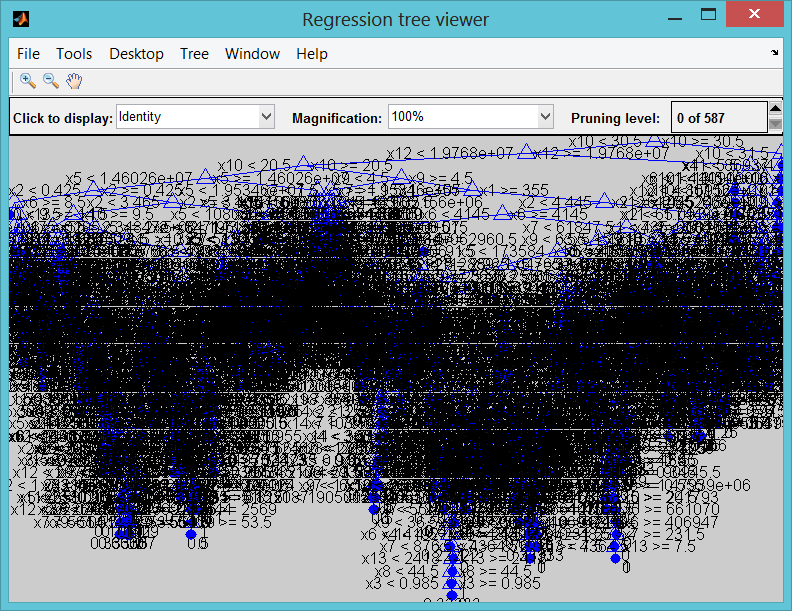
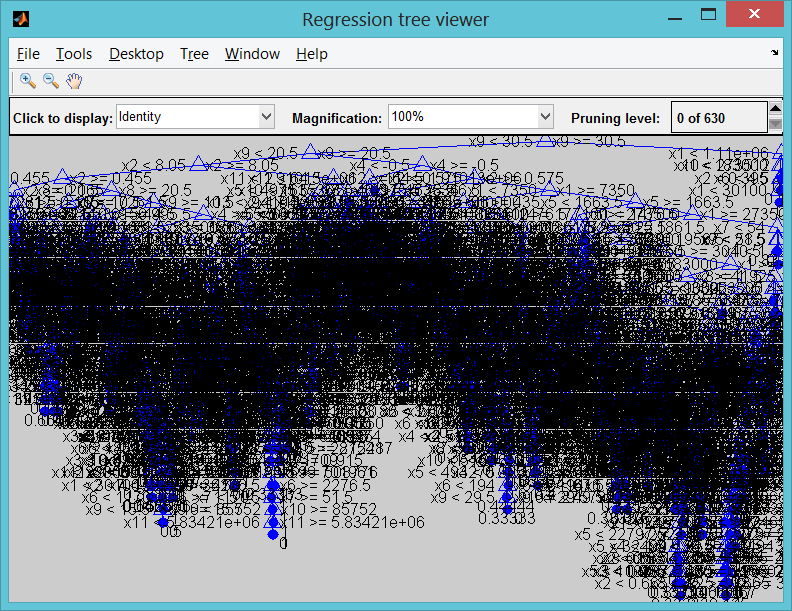
new predictors

Changed region(s): [[0.0, 0.4975, 1.0, 0.9951], [0.0, 0.1866, 1.0, 0.5908], [0.3333, 0.4975, 0.3636, 0.5286]]

diff --git a/toxicity_multiple_learning.html b/toxicity_multiple_learning.html
@@ -6,7 +6,7 @@
    <!--
 This HTML was auto-generated from MATLAB code.
 To make changes, update the MATLAB code and republish this document.
-      --><title>Machine Learning for links toxicity assessment</title><meta name="generator" content="MATLAB 8.3"><link rel="schema.DC" href="http://purl.org/dc/elements/1.1/"><meta name="DC.date" content="2014-11-03"><meta name="DC.source" content="toxicity_multiple_learning.m"><style type="text/css">
+      --><title>Machine Learning for links toxicity assessment</title><meta name="generator" content="MATLAB 8.3"><link rel="schema.DC" href="http://purl.org/dc/elements/1.1/"><meta name="DC.date" content="2014-11-04"><meta name="DC.source" content="toxicity_multiple_learning.m"><style type="text/css">
 html,body,div,span,applet,object,iframe,h1,h2,h3,h4,h5,h6,p,blockquote,pre,a,abbr,acronym,address,big,cite,code,del,dfn,em,font,img,ins,kbd,q,s,samp,small,strike,strong,sub,sup,tt,var,b,u,i,center,dl,dt,dd,ol,ul,li,fieldset,form,label,legend,table,caption,tbody,tfoot,thead,tr,th,td{margin:0;padding:0;border:0;outline:0;font-size:100%;vertical-align:baseline;background:transparent}body{line-height:1}ol,ul{list-style:none}blockquote,q{quotes:none}blockquote:before,blockquote:after,q:before,q:after{content:'';content:none}:focus{outine:0}ins{text-decoration:none}del{text-decoration:line-through}table{border-collapse:collapse;border-spacing:0}
 
 html { min-height:100%; margin-bottom:1px; }
@@ -117,9 +117,9 @@ table td { padding:7px 5px; text-align:left; vertical-align:top; border:1px soli
     3736                           4.7295e+05               
        2                                    7               
 
-</pre><h2>Prepare the Data: Response and Predictors<a name="3"></a></h2><p>We can segregate the data into response and predictors. This will make it easier to call subsequent functions which expect the data in this format.</p><pre class="codeinput">X = [penguin.KeywordVolume penguin.KeywordCpc penguin.KeywordCompetition penguin.Pr penguin.Alexa penguin.RefPages penguin.RefDomains penguin.CitationFlow penguin.TrustFlow penguin.YesterdayPos penguin.ExactAnchorsRefDomains penguin.ExactAnchorsRefPages penguin.ContainingAnchorsRefDomains penguin.ContainingAnchorsRefPages];
+</pre><h2>Prepare the Data: Response and Predictors<a name="3"></a></h2><p>We can segregate the data into response and predictors. This will make it easier to call subsequent functions which expect the data in this format.</p><pre class="codeinput">X = [penguin.KeywordVolume penguin.KeywordCpc penguin.KeywordCompetition penguin.Pr penguin.RefPages penguin.RefDomains penguin.CitationFlow penguin.TrustFlow penguin.YesterdayPos penguin.ExactAnchorsRefDomains penguin.ExactAnchorsRefPages penguin.ContainingAnchorsRefDomains penguin.ContainingAnchorsRefPages];
 
-catPred={<span class="string">'KeywordVolume'</span> <span class="string">'KeywordCpc'</span> <span class="string">'KeywordCompetition'</span> <span class="string">'Pr'</span> <span class="string">'Alexa'</span> <span class="string">'RefPages'</span> <span class="string">'RefDomains'</span> <span class="string">'CitationFlow'</span> <span class="string">'TrustFlow'</span> <span class="string">'YesterdayPos'</span> <span class="string">'ExactAnchorsRefDomains'</span> <span class="string">'ExactAnchorsRefPages'</span> <span class="string">'ContainingAnchorsRefDomains'</span> <span class="string">'ContainingAnchorsRefPages'</span>};
+catPred={<span class="string">'KeywordVolume'</span> <span class="string">'KeywordCpc'</span> <span class="string">'KeywordCompetition'</span> <span class="string">'Pr'</span> <span class="string">'RefPages'</span> <span class="string">'RefDomains'</span> <span class="string">'CitationFlow'</span> <span class="string">'TrustFlow'</span> <span class="string">'YesterdayPos'</span> <span class="string">'ExactAnchorsRefDomains'</span> <span class="string">'ExactAnchorsRefPages'</span> <span class="string">'ContainingAnchorsRefDomains'</span> <span class="string">'ContainingAnchorsRefPages'</span>};
 
 <span class="comment">% output vector we try to forecast penguin.TodayPos penguin.Change penguin.Change_abs</span>
 <span class="comment">% this threshold is arbitrary ( a continuous classifier is done in another script )</span>
@@ -146,12 +146,12 @@ disp(<span class="string">'Test Set'</span>)
 tabulate(Ytest)
 </pre><pre class="codeoutput">Training Set
   Value    Count   Percent
-      0     8826     71.33%
-      1     3548     28.67%
+      0     9647     71.35%
+      1     3874     28.65%
 Test Set
   Value    Count   Percent
-      0     5913     71.69%
-      1     2335     28.31%
+      0     6499     72.11%
+      1     2514     27.89%
 </pre><h2>Tree performance on validating and training set<a name="5"></a></h2><pre class="codeinput">t = classregtree(Xtrain,Ytrain);
 <span class="comment">%  See tree</span>
 view(t)
@@ -175,20 +175,20 @@ C_tree = confusionmat(categorical(predY),categorical(Ytest));
 <span class="comment">% Examine the confusion matrix for each class as a percentage of the true class</span>
 C_tree = bsxfun(@rdivide,C_tree,sum(C_tree,2)) * 100 <span class="comment">%#ok&lt;*NOPTS&gt;</span>
 </pre><pre class="codeoutput">Full tree training set
-Tree, % Good classified rate on set  : 92.5327
+Tree, % Good classified rate on set  : 92.4858
 
 C_tree =
 
-   95.7398    4.2602
-   14.8822   85.1178
+   96.0222    3.9778
+   15.5164   84.4836
 
 Full tree validating set
-Tree, % Good classified rate on set  : 66.4161
+Tree, % Good classified rate on set  : 66.5039
 
 C_tree =
 
-   77.7405   22.2595
-   58.4204   41.5796
+   78.0374   21.9626
+   58.9954   41.0046
 
 </pre><img vspace="5" hspace="5" src="toxicity_multiple_learning_01.png" alt=""> <h2>Neural Networks<a name="6"></a></h2><p>Neural Network Toolbox supports supervised learning with feedforward, radial basis, and dynamic networks. It supports both classification and regression algorithms. It also supports unsupervised learning with self-organizing maps and competitive layers.</p><p>One can make use of the interactive tools to setup, train and validate a neural network. It is then possible to auto-generate the code for the purpose of automation. In this example, the auto-generated code has been updated to utilize a pool of workers, if available. This is achieved by simply setting the <i>useParallel</i> flag while making a call to <tt>train</tt>.</p><pre class="language-matlab">[net,~] = train(net,inputs,targets,<span class="string">'useParallel'</span>,<span class="string">'yes'</span>);
 </pre><p>If a GPU is available, it may be utilized by setting the <i>useGPU</i> flag.</p><p>The trained network is used to make a prediction on the test data and confusion matrix is generated for comparison with other techniques.</p><pre class="codeinput"><span class="comment">% Use modified autogenerated code to train the network</span>
@@ -206,8 +206,8 @@ C_nn = bsxfun(@rdivide,C_nn,sum(C_nn,2)) * 100 <span class="comment">%#ok&lt;*NO
 
 C_nn =
 
-   99.9154    0.0846
-   99.9572    0.0428
+   94.9531    5.0469
+   90.2546    9.7454
 
 </pre><img vspace="5" hspace="5" src="toxicity_multiple_learning_02.png" alt=""> <h2>Generalized Linear Model - Logistic Regression<a name="7"></a></h2><p>In this example, a logistic regression model is leveraged. Response may follow normal, binomial, Poisson, gamma, or inverse Gaussian distribution.</p><p>Since the response in this data set is binary, binomial distribution is suitable.</p><pre class="codeinput"><span class="comment">% Train the classifier</span>
 glm = GeneralizedLinearModel.fit(Xtrain,Ytrain,<span class="string">'linear'</span>,<span class="string">'Distribution'</span>,<span class="string">'binomial'</span>,<span class="string">'link'</span>,<span class="string">'logit'</span>);
@@ -223,8 +223,8 @@ C_glm = bsxfun(@rdivide,C_glm,sum(C_glm,2)) * 100
 </pre><pre class="codeoutput">
 C_glm =
 
-   92.9816    7.0184
-   87.2805   12.7195
+   92.6450    7.3550
+   86.2371   13.7629
 
 </pre><h2>Discriminant Analysis<a name="8"></a></h2><p>Discriminant analysis is a classification method. It assumes that different classes generate data based on different Gaussian distributions. Linear discriminant analysis is also known as the Fisher discriminant.</p><p>Here, a quadratic discriminant classifier is used.</p><pre class="codeinput"><span class="comment">% Train the classifier</span>
 da = ClassificationDiscriminant.fit(Xtrain,Ytrain,<span class="string">'discrimType'</span>,<span class="string">'quadratic'</span>);
@@ -239,8 +239,8 @@ C_da = bsxfun(@rdivide,C_da,sum(C_da,2)) * 100
 </pre><pre class="codeoutput">
 C_da =
 
-   82.9866   17.0134
-   71.0064   28.9936
+   98.1228    1.8772
+   97.4543    2.5457
 
 </pre><h2>Classification Using Nearest Neighbors<a name="9"></a></h2><p>Categorizing query points based on their distance to points in a training dataset can be a simple yet effective way of classifying new points. Various distance metrics such as euclidean, correlation, hamming, mahalonobis or your own distance metric may be used.</p><pre class="codeinput"><span class="comment">% Train the classifier</span>
 knn = ClassificationKNN.fit(Xtrain,Ytrain,<span class="string">'Distance'</span>,<span class="string">'seuclidean'</span>);
@@ -255,8 +255,8 @@ C_knn = bsxfun(@rdivide,C_knn,sum(C_knn,2)) * 100
 </pre><pre class="codeoutput">
 C_knn =
 
-   76.2388   23.7612
-   58.2441   41.7559
+   75.2885   24.7115
+   59.8250   40.1750
 
 </pre><h2>Naive Bayes Classification<a name="10"></a></h2><p>Naive Bayes classification is based on estimating P(X|Y), the probability or probability density of features X given class Y. The Naive Bayes classification object provides support for normal (Gaussian), kernel, multinomial, and multivariate multinomial distributions</p><pre class="codeinput"><span class="comment">% The multivariate multinomial distribution (_mvmn_) is appropriate for</span>
 <span class="comment">% categorical features</span>
@@ -273,8 +273,8 @@ C_nb = bsxfun(@rdivide,C_nb,sum(C_nb,2)) * 100
 </pre><pre class="codeoutput">
 C_nb =
 
-   67.7829   32.2171
-   47.4090   52.5910
+   62.8097   37.1903
+   39.1806   60.8194
 
 </pre><h2>Support Vector Machines<a name="11"></a></h2><p>Support vector machine (SVM) is supported for binary response variables. An SVM classifies data by finding the best hyperplane that separates all data points of one class from those of the other class.</p><pre class="codeinput">opts = statset(<span class="string">'MaxIter'</span>,30000);
 <span class="comment">% Train the classifier</span>
@@ -288,8 +288,8 @@ C_svm = bsxfun(@rdivide,C_svm,sum(C_svm,2)) * 100
 </pre><pre class="codeoutput">
 C_svm =
 
-   49.3996   50.6004
-   15.0749   84.9251
+   47.9305   52.0695
+   14.0811   85.9189
 
 </pre><h2>Decision Trees<a name="12"></a></h2><p>Classification trees and regression trees are two kinds of decision trees. A decision tree is a flow-chart like structure in which internal node represents test on an attribute, each branch represents outcome of test and each leaf node represents a response (decision taken after computing all attributes). Classification trees give responses that are nominal, such as 'true' or 'false'. Regression trees give numeric responses.</p><pre class="codeinput">tic
 <span class="comment">% Train the classifier</span>
@@ -303,12 +303,12 @@ Y_t = t.predict(Xtest);
 C_t = confusionmat(categorical(Ytest),categorical(Y_t));
 <span class="comment">% Examine the confusion matrix for each class as a percentage of the true class</span>
 C_t = bsxfun(@rdivide,C_t,sum(C_t,2)) * 100
-</pre><pre class="codeoutput">Elapsed time is 0.528950 seconds.
+</pre><pre class="codeoutput">Elapsed time is 0.505899 seconds.
 
 C_t =
 
-   76.6109   23.3891
-   57.5589   42.4411
+   76.3502   23.6498
+   56.7224   43.2776
 
 </pre><h2>Ensemble Learning: TreeBagger<a name="13"></a></h2><p>Bagging stands for bootstrap aggregation. Every tree in the ensemble is grown on an independently drawn sample of input data. To compute prediction for the ensemble of trees, TreeBagger takes an average of predictions from individual trees (for regression) or takes votes from individual trees (for classification). Ensemble techniques such as bagging combine many weak learners to produce a strong learner.</p><p>From a marketing perspective, as we are creating this predictive model, it may be more important for us to classify <b><i>yes</i></b> correctly than a <b><i>no</i></b>. If that is the case, we can include our opinion using the <i>cost</i> matrix. Here, <i>cost</i> matrix specifies that it is 5 times more costly to classify a <b><i>yes</i></b> as a <b><i>no</i></b>.</p><pre class="codeinput"><span class="comment">% Cost of misclassification</span>
 cost = [0 1
@@ -328,8 +328,8 @@ C_tb = bsxfun(@rdivide,C_tb,sum(C_tb,2)) * 100
 </pre><pre class="codeoutput">
 C_tb =
 
-   57.2637   42.7363
-   21.3704   78.6296
+   55.9163   44.0837
+   20.5251   79.4749
 
 </pre><h2>Compare Results<a name="14"></a></h2><p>This visualization function is making use of a couple files downloaded from <a href="http://www.mathworks.com/matlabcentral/">MATLAB Central</a>, the user community websibte. We are leveraging social computing along the way to help us in our effort.</p><pre class="codeinput">Cmat = [C_nn C_glm C_da C_knn C_nb C_svm C_t C_tb];
 labels = {<span class="string">'Neural Net '</span>, <span class="string">'Logistic Regression '</span>, <span class="string">'Discriminant Analysis '</span>,<span class="keyword">...</span>
@@ -364,34 +364,40 @@ disp(<span class="string">'Included features:'</span>);
 disp(catPred(fs)');
 disp([<span class="string">'Percentage of predictors kept : '</span> num2str(sum(fs)./length(fs)*100) <span class="string">'%'</span>]);
 </pre><pre class="codeoutput">Start forward sequential feature selection:
-Initial columns included:  2 3 10 11 13 
+Initial columns included:  1 2 3 9 12 
 Columns that can not be included:  none
-Step 1, used initial columns, criterion value 0.000566851
-Step 2, added column 5, criterion value 0.000538041
-Step 3, added column 7, criterion value 0.00052648
-Step 4, added column 9, criterion value 0.000520938
-Final columns included:  2 3 5 7 9 10 11 13 
+Step 1, used initial columns, criterion value 0.000511759
+Step 2, added column 11, criterion value 0.000502644
+Step 3, added column 13, criterion value 0.000494243
+Step 4, added column 5, criterion value 0.000489064
+Final columns included:  1 2 3 5 9 11 12 13 
 Start forward sequential feature selection:
-Initial columns included:  2 3 10 11 13 
+Initial columns included:  1 2 3 9 12 
 Columns that can not be included:  none
-Step 1, used initial columns, criterion value 0.000556259
-Step 2, added column 5, criterion value 0.000543932
-Step 3, added column 7, criterion value 0.000530116
-Step 4, added column 12, criterion value 0.000521046
-Step 5, added column 14, criterion value 0.000519754
-Final columns included:  2 3 5 7 10 11 12 13 14 
+Step 1, used initial columns, criterion value 0.00050942
+Step 2, added column 4, criterion value 0.000495904
+Step 3, added column 6, criterion value 0.000487469
+Step 4, added column 10, criterion value 0.000485233
+Step 5, added column 11, criterion value 0.000483666
+Step 6, added column 5, criterion value 0.00048251
+Step 7, added column 7, criterion value 0.000481991
+Step 8, added column 8, criterion value 0.000481276
+Final columns included:  1 2 3 4 5 6 7 8 9 10 11 12 
 Included features:
+    'KeywordVolume'
     'KeywordCpc'
     'KeywordCompetition'
-    'Alexa'
+    'Pr'
+    'RefPages'
     'RefDomains'
+    'CitationFlow'
+    'TrustFlow'
     'YesterdayPos'
     'ExactAnchorsRefDomains'
     'ExactAnchorsRefPages'
     'ContainingAnchorsRefDomains'
-    'ContainingAnchorsRefPages'
 
-Percentage of predictors kept : 64.2857%
+Percentage of predictors kept : 92.3077%
 </pre><h2>TreeBagger with Reduced Feature Set<a name="19"></a></h2><pre class="codeinput">opts = statset(<span class="string">'UseParallel'</span>,true);
 tb_r = TreeBagger(120, Xtrain(:,fs),Ytrain,<span class="string">'method'</span>,<span class="string">'classification'</span>,<span class="string">'PredictorNames'</span>,catPred(:,fs),<span class="string">'Options'</span>,opts,<span class="string">'cost'</span>,cost);
 [Y_tb_r, classifScore] = tb_r.predict(Xtest(:,fs));
@@ -401,8 +407,8 @@ C_tb_r = bsxfun(@rdivide,C_tb_r,sum(C_tb_r,2)) * 100
 </pre><pre class="codeoutput">
 C_tb_r =
 
-   56.5872   43.4128
-   22.8266   77.1734
+   56.6241   43.3759
+   22.1957   77.8043
 
 </pre><h2>Compare Results<a name="20"></a></h2><pre class="codeinput">Cmat = [C_nn C_glm C_da C_knn C_nb C_svm C_t C_tb C_tb_r];
 labels = {<span class="string">'Neural Net '</span>, <span class="string">'Logistic Regression '</span>, <span class="string">'Discriminant Analysis '</span>,<span class="keyword">...</span>
@@ -443,9 +449,9 @@ disp(penguin(1:5,:));
 % We can segregate the data into response and predictors. This will make it
 % easier to call subsequent functions which expect the data in this format.
 
-X = [penguin.KeywordVolume penguin.KeywordCpc penguin.KeywordCompetition penguin.Pr penguin.Alexa penguin.RefPages penguin.RefDomains penguin.CitationFlow penguin.TrustFlow penguin.YesterdayPos penguin.ExactAnchorsRefDomains penguin.ExactAnchorsRefPages penguin.ContainingAnchorsRefDomains penguin.ContainingAnchorsRefPages];
+X = [penguin.KeywordVolume penguin.KeywordCpc penguin.KeywordCompetition penguin.Pr penguin.RefPages penguin.RefDomains penguin.CitationFlow penguin.TrustFlow penguin.YesterdayPos penguin.ExactAnchorsRefDomains penguin.ExactAnchorsRefPages penguin.ContainingAnchorsRefDomains penguin.ContainingAnchorsRefPages];
 
-catPred={'KeywordVolume' 'KeywordCpc' 'KeywordCompetition' 'Pr' 'Alexa' 'RefPages' 'RefDomains' 'CitationFlow' 'TrustFlow' 'YesterdayPos' 'ExactAnchorsRefDomains' 'ExactAnchorsRefPages' 'ContainingAnchorsRefDomains' 'ContainingAnchorsRefPages'};
+catPred={'KeywordVolume' 'KeywordCpc' 'KeywordCompetition' 'Pr' 'RefPages' 'RefDomains' 'CitationFlow' 'TrustFlow' 'YesterdayPos' 'ExactAnchorsRefDomains' 'ExactAnchorsRefPages' 'ContainingAnchorsRefDomains' 'ContainingAnchorsRefPages'};
 
 % output vector we try to forecast penguin.TodayPos penguin.Change penguin.Change_abs
 % this threshold is arbitrary ( a continuous classifier is done in another script )
